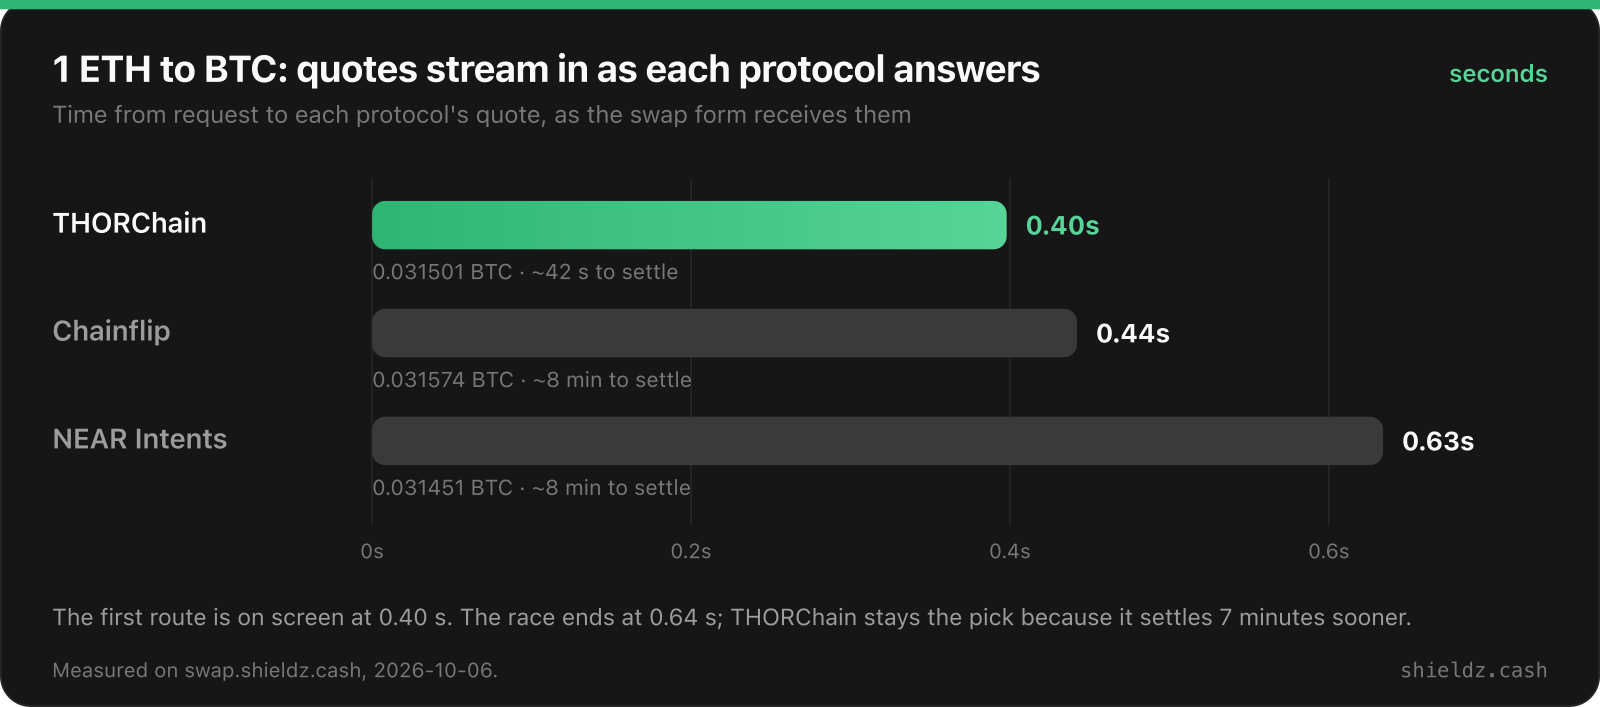
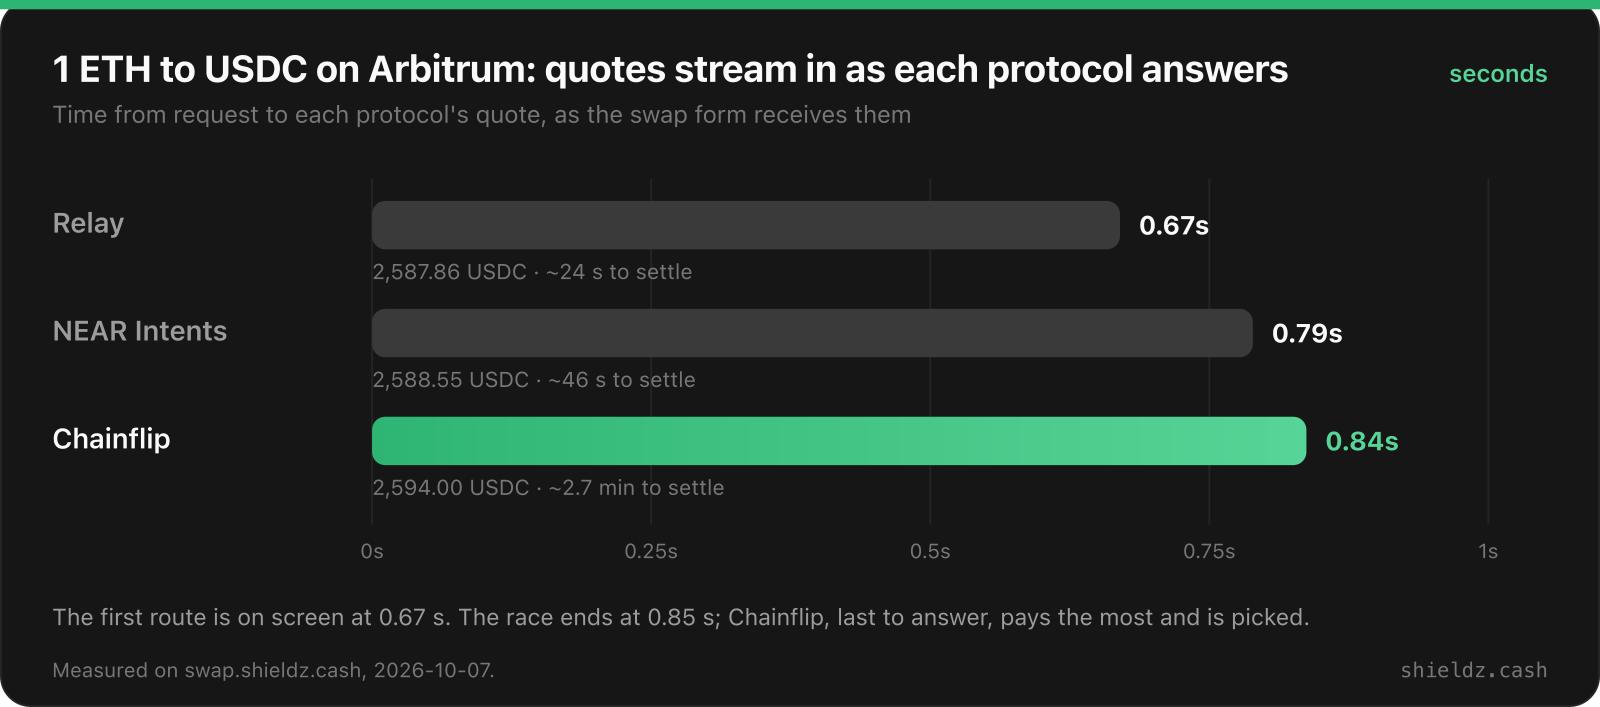
cross-chain-crypto-swap: THORChain is switched off; three protocols, re-measured charts
The router disabled THORChain on 2026-10-06, so the post no longer says four
protocols race. The route-race and quote-timeline charts are re-measured on
1 ETH -> USDC on Arbitrum (Chainflip, NEAR Intents, Relay), the trade-off
example uses live quotes, the landing screenshot is retaken, and the counts
match the app (265 assets, 45 chains).

diff --git a/src/content/blog/cross-chain-crypto-swap.md b/src/content/blog/cross-chain-crypto-swap.md
@@ -1,19 +1,19 @@
 ---
 title: "Cross-Chain Crypto Swap Without Custody: Meet Shieldz Swap"
-description: "A non-custodial cross-chain crypto swap that races NEAR Intents, Chainflip, Relay and THORChain, shows every route, and charges a flat 0.15% fee."
+description: "A non-custodial cross-chain crypto swap that races NEAR Intents, Chainflip and Relay, shows every route, and charges a flat 0.15% fee."
 pubDate: 2026-10-06
 author: "Deniz Yanbollu"
-tags: ["cross-chain crypto swap", "crypto swap", "non-custodial", "near intents", "chainflip", "relay", "thorchain"]
+tags: ["cross-chain crypto swap", "crypto swap", "non-custodial", "near intents", "chainflip", "relay"]
 eyebrow: "Guide"
 image: "https://shieldz.cash/blog/og/cross-chain-crypto-swap.png"
 ---
 
 A cross-chain crypto swap should be simple: you hold one coin on one network, you want another coin on another network, and you would like the best price without handing your money to anyone. In practice it rarely is. Every wallet sends you down one route, prices differ from protocol to protocol by more than the fee you are worrying about, and the easy options are custodial exchanges that hold your funds while they do it.
 
-[Shieldz Swap](https://swap.shieldz.cash) is our answer. It asks four independent cross-chain protocols for a price at the same moment, shows you every route they offer before you sign, and sends you straight from your own wallet to theirs. It never holds your funds or your keys, there is no account and no KYC, and the service fee is a flat 0.15% on every route, shown on every quote. This guide explains how it works, what it costs, what you can swap, and where the risks are. If you are a merchant, the companion post on [how cross-chain crypto payments route](/blog/cross-chain-crypto-payments) covers the checkout side.
+[Shieldz Swap](https://swap.shieldz.cash) is our answer. It asks independent cross-chain protocols for a price at the same moment, shows you every route they offer before you sign, and sends you straight from your own wallet to theirs. It never holds your funds or your keys, there is no account and no KYC, and the service fee is a flat 0.15% on every route, shown on every quote. This guide explains how it works, what it costs, what you can swap, and where the risks are. If you are a merchant, the companion post on [how cross-chain crypto payments route](/blog/cross-chain-crypto-payments) covers the checkout side.
 
 <figure style="margin:28px 0">
-  <a href="/blog/img/swap-landing.png"><img src="/blog/img/swap-landing.png" alt="The Shieldz Swap home page: 'Swap any coin, on any chain', with live counts of 268 assets, 47 chains and 4 routing protocols, and a live quote for 1 ETH to BTC showing THORChain, Chainflip and NEAR Intents routes side by side." width="1200" height="769" loading="lazy" style="width:100%;height:auto;border-radius:16px;border:1px solid #262626" /></a>
+  <a href="/blog/img/swap-landing.png"><img src="/blog/img/swap-landing.png" alt="The Shieldz Swap home page: 'Swap any coin, on any chain', with live counts of 265 assets, 45 chains and 3 routing protocols, and a live quote for 1 ETH to BTC showing the Chainflip and NEAR Intents routes side by side." width="1200" height="769" loading="lazy" style="width:100%;height:auto;border-radius:16px;border:1px solid #262626" /></a>
   <figcaption style="font-size:13px;color:#949494;margin-top:8px">swap.shieldz.cash: every route for a live 1 ETH to BTC quote, with the amount and settle time of each.</figcaption>
 </figure>
 
@@ -24,20 +24,20 @@ Shieldz Swap is a **non-custodial interface** for cross-chain swaps. It does thr
 That division matters because it decides who can lose your money. A custodial exchange takes your coins into its own wallet, swaps them on its books, and pays you out later; until it does, you are its creditor. We have written about [why custody is the real risk in crypto payments](/blog/are-crypto-payment-gateways-custodial), and the same logic applies to swaps. With Shieldz Swap there is no point where we hold anything:
 
 - **You sign every transaction in your own wallet.** MetaMask, Rabby, Coinbase Wallet, OKX, Trust, Phantom, Solflare, Backpack, TronLink, Noir and WalletConnect all work, and so do the hardware wallets: Ledger, Trezor and Keystone.
-- **Deposit addresses come from the protocols, not from us.** When a route needs a deposit, NEAR Intents, Chainflip, Relay or THORChain issues the address and controls what happens to funds sent to it.
+- **Deposit addresses come from the protocols, not from us.** When a route needs a deposit, NEAR Intents, Chainflip or Relay issues the address and controls what happens to funds sent to it.
 - **There is no account.** No email, no password, no identity documents. Your swap history lives in your browser.
 
 What it is not: an exchange, a broker, a custodian or an investment adviser. It is a routing and signing tool, and the [terms](https://swap.shieldz.cash/terms) say so in plain language.
 
 ## Why routing matters more than the fee
 
-Most people compare swap apps by their fee. The fee matters (we will get to it), but on a cross-chain swap the bigger number is usually the **route**. Different protocols are different machines: Chainflip runs its own cross-chain liquidity pools with native Bitcoin, NEAR Intents settles through a solver auction, Relay fills from market-maker inventory, and THORChain swaps through its own continuous liquidity pools. On any given pair, at any given minute, any of them can be the best.
+Most people compare swap apps by their fee. The fee matters (we will get to it), but on a cross-chain swap the bigger number is usually the **route**. Different protocols are different machines: Chainflip runs its own cross-chain liquidity pools with native Bitcoin, NEAR Intents settles through a solver auction, and Relay fills from market-maker inventory. (THORChain, which swaps through its own continuous liquidity pools, is switched off for now.) On any given pair, at any given minute, any of them can be the best.
 
-Here is a real example from the live router, all four protocols asked for the same swap at the same second:
+Here is a real example from the live router, all three protocols asked for the same swap at the same second:
 
 <figure style="margin:28px 0">
-  <a href="/blog/charts/swap-route-race.svg"><img src="/blog/charts/swap-route-race.svg" alt="One ETH to USDC on Base, quoted at the same moment: NEAR Intents 2,706.90 USDC, Relay 2,704.87 USDC, THORChain 2,704.13 USDC. The spread between the best and worst route is 2.77 dollars." width="760" height="336" loading="lazy" style="width:100%;height:auto;border-radius:16px" /></a>
-  <figcaption style="font-size:13px;color:#949494;margin-top:8px">1 ETH to USDC on Base, measured 2026-10-06. The gap between routes was $2.77 on a $2,700 swap, more than the whole service fee on many apps.</figcaption>
+  <a href="/blog/charts/swap-route-race.svg"><img src="/blog/charts/swap-route-race.svg" alt="One ETH to USDC on Arbitrum, quoted at the same moment: Chainflip 2,594.00 USDC, NEAR Intents 2,588.55 USDC, Relay 2,587.86 USDC. The spread between the best and worst route is 6.14 dollars." width="760" height="336" loading="lazy" style="width:100%;height:auto;border-radius:16px" /></a>
+  <figcaption style="font-size:13px;color:#949494;margin-top:8px">1 ETH to USDC on Arbitrum, measured 2026-10-07. The gap between routes was $6.14 on a $2,600 swap, four times the whole Shieldz fee.</figcaption>
 </figure>
 
 A wallet that only knows one route would have given you one of those numbers and no way to know about the others. Shieldz Swap shows all of them and picks the best for you.
@@ -46,15 +46,15 @@ A wallet that only knows one route would have given you one of those numbers and
 
 "Best" is not simply the biggest number. Every quote is ranked on **what you receive after every fee**, discounted slightly for how long the swap takes to settle (5 basis points per minute). The reason is practical: a route that pays 0.2% more but takes eight minutes to arrive is not always better than one that lands in 40 seconds, especially when prices are moving.
 
-You can see that trade-off in the next example. For 1 ETH to BTC, Chainflip offered the most bitcoin, but THORChain was picked because it settles about seven minutes sooner for a difference of about 0.23%. Both routes stay on screen, so if you prefer the larger amount you can see exactly what you are trading for the time.
+The trade-off works in both directions. In the chart above, Chainflip takes about 2.7 minutes against Relay's 24 seconds, but pays $6 more, so it wins. For 1 ETH from Ethereum to Arbitrum, NEAR Intents offered 0.997995 ETH and Relay 0.997909 ETH, about 22 cents less; Relay was picked because it lands 20 seconds sooner. Every route stays on screen, so if you prefer the larger amount you can see exactly what you are trading for the time.
 
 ## Quotes stream in as each protocol answers
 
-Asking four protocols takes as long as the slowest one. Instead of making you wait for all of them, Shieldz Swap streams each answer to your screen the moment it arrives and re-ranks as the rest come in.
+Asking several protocols takes as long as the slowest one. Instead of making you wait for all of them, Shieldz Swap streams each answer to your screen the moment it arrives and re-ranks as the rest come in.
 
 <figure style="margin:28px 0">
-  <a href="/blog/charts/swap-quote-timeline.svg"><img src="/blog/charts/swap-quote-timeline.svg" alt="One ETH to BTC: THORChain answered at 0.40 seconds with 0.031501 BTC settling in about 42 seconds, Chainflip at 0.44 seconds with 0.031574 BTC in about 8 minutes, and NEAR Intents at 0.63 seconds with 0.031451 BTC in about 8 minutes." width="760" height="336" loading="lazy" style="width:100%;height:auto;border-radius:16px" /></a>
-  <figcaption style="font-size:13px;color:#949494;margin-top:8px">The first route was on screen at 0.40 s; the full race finished at 0.64 s. You see a real price before the slowest protocol has even answered.</figcaption>
+  <a href="/blog/charts/swap-quote-timeline.svg"><img src="/blog/charts/swap-quote-timeline.svg" alt="One ETH to USDC on Arbitrum: Relay answered at 0.67 seconds with 2,587.86 USDC settling in about 24 seconds, NEAR Intents at 0.79 seconds with 2,588.55 USDC in about 46 seconds, and Chainflip at 0.84 seconds with 2,594.00 USDC in about 2.7 minutes." width="760" height="336" loading="lazy" style="width:100%;height:auto;border-radius:16px" /></a>
+  <figcaption style="font-size:13px;color:#949494;margin-top:8px">The first route was on screen at 0.67 s; the full race finished at 0.85 s. You see a real price before the slowest protocol has even answered.</figcaption>
 </figure>
 
 The ranking you see while quotes arrive uses the same rule as the final answer, so the route on screen does not jump around when the last protocol reports in. And you can only review and confirm a swap once the race is complete, so what you sign is always the router's final pick.
@@ -79,7 +79,7 @@ That is the whole flow. There is no deposit into a Shieldz balance first and no 
 
 There are three kinds of cost on any cross-chain swap, and it is worth being exact about each:
 
-- **The service fee.** This is what Shieldz charges: **0.15% on every route**, NEAR Intents, Chainflip, Relay and Jupiter alike. It is already taken out of the amount you are shown, and the form shows it as its own line with its dollar value. THORChain routes currently carry no Shieldz fee.
+- **The service fee.** This is what Shieldz charges: **0.15% on every route**, NEAR Intents, Chainflip, Relay and Jupiter alike. It is already taken out of the amount you are shown, and the form shows it as its own line with its dollar value.
 - **Protocol fees.** Each protocol charges for its own work: liquidity and outbound fees, and on NEAR Intents a 0.20% platform fee that NEAR applies to every swap. These are part of the quote you see, and they are not ours.
 - **Network fees.** The gas your wallet pays to send your transaction on the chain you pay from. The form shows an upper bound; your wallet shows the exact figure before you sign.
 
@@ -94,7 +94,7 @@ To be fair to the field: Uniswap's own interface charges no fee at all, but it s
 
 ## What you can swap
 
-The router lists **268 assets across 47 chains**, and the number moves as protocols add and pause pools. That includes the coins people actually hold:
+The router lists **265 assets across 45 chains**, and the number moves as protocols add and pause pools. That includes the coins people actually hold:
 
 - **Bitcoin and its family:** BTC, Litecoin, Bitcoin Cash and Dogecoin, plus wrapped bitcoin on EVM chains (WBTC, cbBTC).
 - **Ethereum and the EVM chains:** ETH and tokens on Ethereum, Arbitrum, Base, Optimism, Polygon, BNB Chain, Avalanche, Gnosis, Linea, Scroll, Blast, Berachain, Monad and more.
@@ -103,7 +103,7 @@ The router lists **268 assets across 47 chains**, and the number moves as protoc
 
 <figure style="margin:28px 0">
   <a href="/blog/img/swap-chains.png"><img src="/blog/img/swap-chains.png" alt="The supported chains grid on Shieldz Swap: Ethereum, BNB Chain, NEAR, Base, Solana, Aptos, Arbitrum, Gnosis, Polygon, Monad, Optimism, Tron, Avalanche, Berachain, HyperEVM, Plasma, Polkadot, Linea, Blast, Bitcoin, Scroll, Soneium, Stellar, Sui and 15 more." width="1200" height="463" loading="lazy" style="width:100%;height:auto;border-radius:16px;border:1px solid #262626" /></a>
-  <figcaption style="font-size:13px;color:#949494;margin-top:8px">47 chains, each with at least one live route. A route that stops answering is hidden until it recovers.</figcaption>
+  <figcaption style="font-size:13px;color:#949494;margin-top:8px">45 chains, each with at least one live route. A route that stops answering is hidden until it recovers.</figcaption>
 </figure>
 
 Not every pair has a route at every size. Each protocol sets its own minimums and supports its own set of chains (Chainflip, for example, has no route into Base USDC), so the form only offers what can actually be filled. If a pair is too small for every protocol, the form tells you the minimum instead of failing at the last step.
@@ -146,24 +146,24 @@ Shieldz started as a [non-custodial crypto payment gateway](/blog/non-custodial-
 No. You sign every transaction in your own wallet, deposit addresses are issued by the protocols, and Shieldz never holds your funds or your keys. There is no account to fund or withdraw from.
 
 **What does a cross-chain swap cost on Shieldz Swap?**
-A 0.15% service fee on every route (none on THORChain routes today), plus the protocol's own fees and the network fee to send your transaction. All of them are already included in the amount shown, and the service fee is shown in dollars on every quote.
+A 0.15% service fee on every route, plus the protocol's own fees and the network fee to send your transaction. All of them are already included in the amount shown, and the service fee is shown in dollars on every quote.
 
 **Which protocols does Shieldz Swap use?**
-NEAR Intents, Chainflip, Relay and THORChain for cross-chain swaps, and Jupiter for Solana memecoins. Each swap is quoted by all the protocols that support the pair, and you see every route before you sign.
+NEAR Intents, Chainflip and Relay for cross-chain swaps, and Jupiter for Solana memecoins. Each swap is quoted by all the protocols that support the pair, and you see every route before you sign.
 
 **What happens if a swap fails?**
 The protocol refunds the funds to the address you paid from, less any network or protocol costs already incurred. You can follow the status in Activity until it resolves.
 
 ## Try it
 
-Open [swap.shieldz.cash](https://swap.shieldz.cash), pick two coins and watch four protocols race for your swap. No account, no KYC, and a flat 0.15% you can see before you sign. If you take crypto for a business, start with [how to accept crypto payments](/blog/how-to-accept-crypto-payments) or the [developer docs](/docs).
+Open [swap.shieldz.cash](https://swap.shieldz.cash), pick two coins and watch the protocols race for your swap. No account, no KYC, and a flat 0.15% you can see before you sign. If you take crypto for a business, start with [how to accept crypto payments](/blog/how-to-accept-crypto-payments) or the [developer docs](/docs).
 
 <script type="application/ld+json">
 {
   "@context": "https://schema.org",
   "@type": "HowTo",
   "name": "How to make a cross-chain crypto swap with Shieldz Swap",
-  "description": "Swap one coin on one chain for another coin on another chain, non-custodially, comparing NEAR Intents, Chainflip, Relay and THORChain routes.",
+  "description": "Swap one coin on one chain for another coin on another chain, non-custodially, comparing NEAR Intents, Chainflip and Relay routes.",
   "totalTime": "PT2M",
   "step": [
     { "@type": "HowToStep", "name": "Pick your coins", "text": "Open swap.shieldz.cash and choose what you pay with and what you want to receive, on any supported chain." },
@@ -182,8 +182,8 @@ Open [swap.shieldz.cash](https://swap.shieldz.cash), pick two coins and watch fo
   "@type": "FAQPage",
   "mainEntity": [
     { "@type": "Question", "name": "Is Shieldz Swap custodial?", "acceptedAnswer": { "@type": "Answer", "text": "No. You sign every transaction in your own wallet, deposit addresses are issued by the protocols, and Shieldz never holds your funds or your keys. There is no account to fund or withdraw from." } },
-    { "@type": "Question", "name": "What does a cross-chain swap cost on Shieldz Swap?", "acceptedAnswer": { "@type": "Answer", "text": "A 0.15% service fee on every route (none on THORChain routes today), plus the protocol's own fees and the network fee to send your transaction. All of them are already included in the amount shown, and the service fee is shown in dollars on every quote." } },
-    { "@type": "Question", "name": "Which protocols does Shieldz Swap use?", "acceptedAnswer": { "@type": "Answer", "text": "NEAR Intents, Chainflip, Relay and THORChain for cross-chain swaps, and Jupiter for Solana memecoins. Each swap is quoted by all the protocols that support the pair, and you see every route before you sign." } },
+    { "@type": "Question", "name": "What does a cross-chain swap cost on Shieldz Swap?", "acceptedAnswer": { "@type": "Answer", "text": "A 0.15% service fee on every route, plus the protocol's own fees and the network fee to send your transaction. All of them are already included in the amount shown, and the service fee is shown in dollars on every quote." } },
+    { "@type": "Question", "name": "Which protocols does Shieldz Swap use?", "acceptedAnswer": { "@type": "Answer", "text": "NEAR Intents, Chainflip and Relay for cross-chain swaps, and Jupiter for Solana memecoins. Each swap is quoted by all the protocols that support the pair, and you see every route before you sign." } },
     { "@type": "Question", "name": "What happens if a swap fails?", "acceptedAnswer": { "@type": "Answer", "text": "The protocol refunds the funds to the address you paid from, less any network or protocol costs already incurred. You can follow the status in Activity until it resolves." } }
   ]
 }
